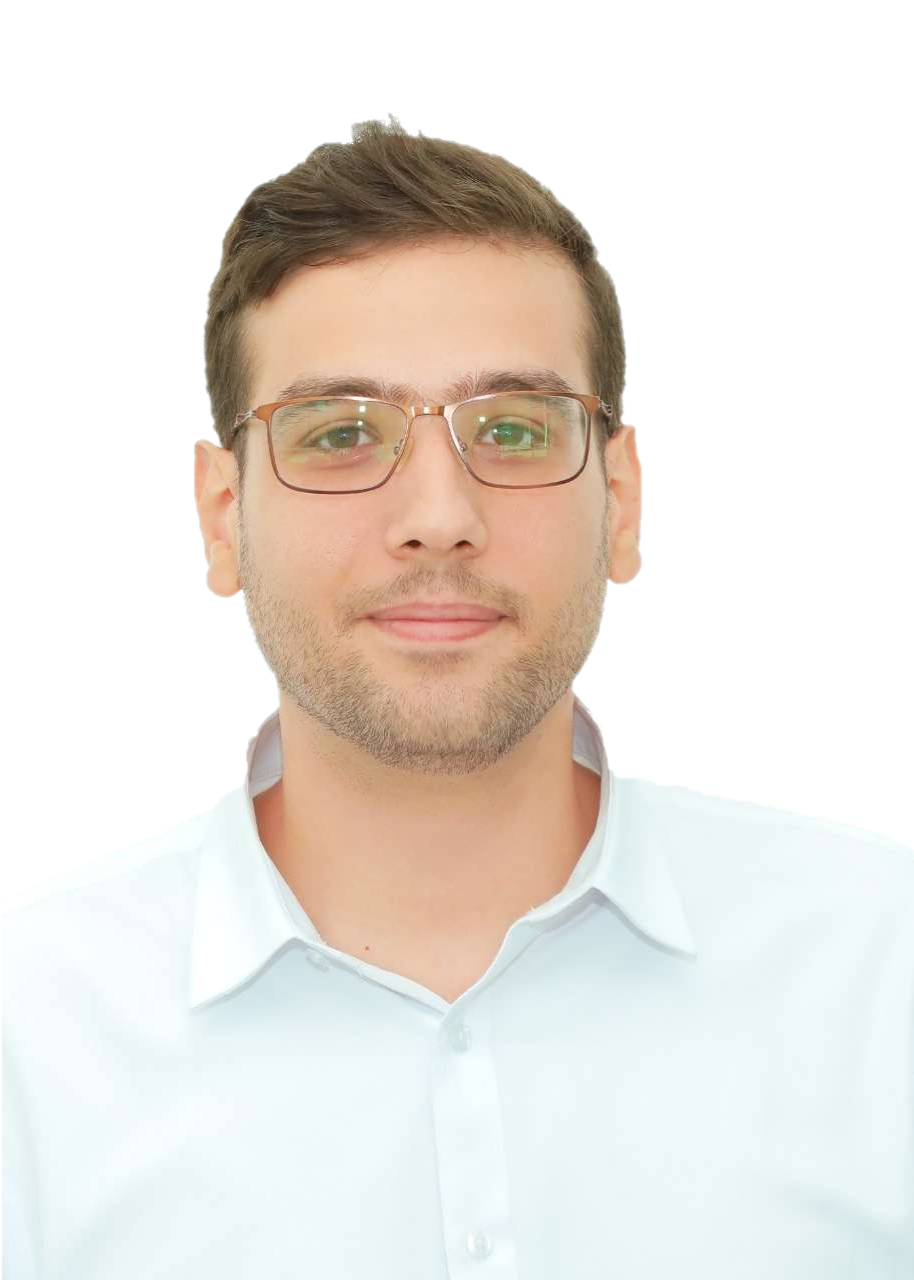
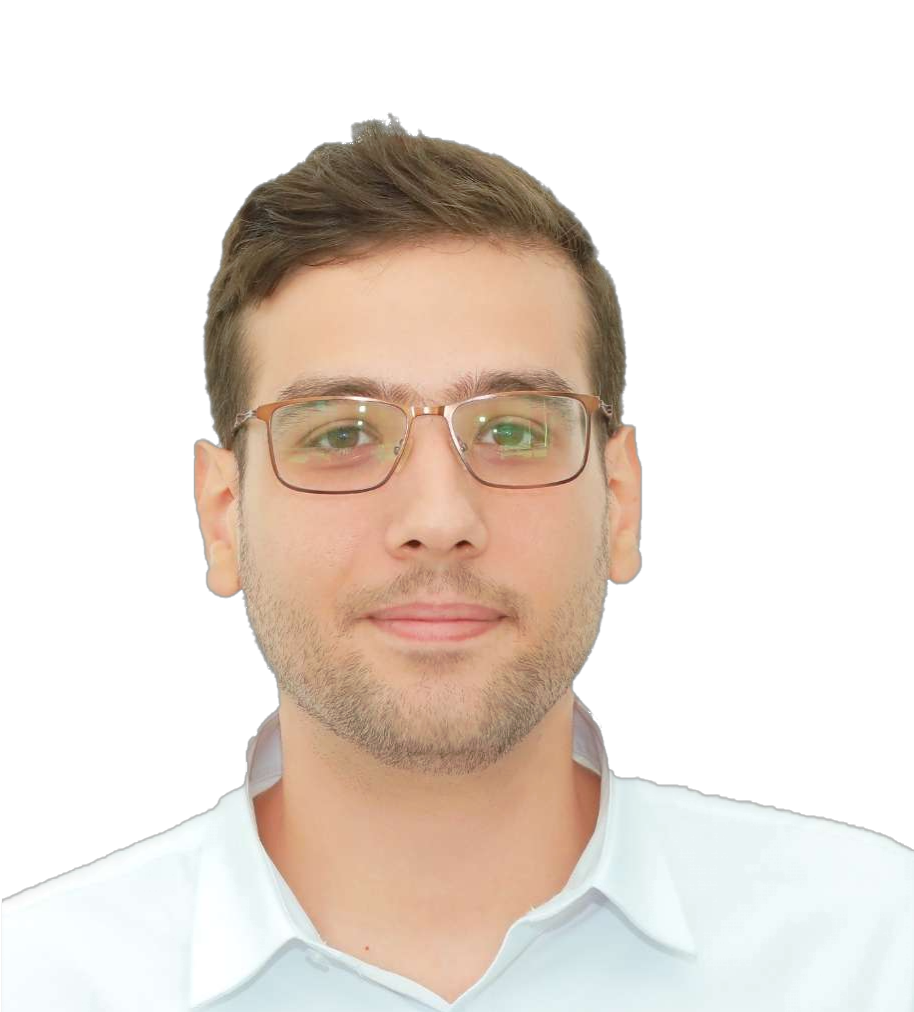
Updated Hero section

diff --git a/src/components/Specific/Sections/HeroSection/index.tsx b/src/components/Specific/Sections/HeroSection/index.tsx
@@ -2,7 +2,7 @@
 
 import styles from "./index.module.scss";
 import Image from "next/image";
-import MyImage from "@/assets/images/malik.jpg";
+import MyImage from "@/assets/images/malik.png";
 import Background from "@/assets/svg/bg.svg";
 import { FaChevronRight } from "react-icons/fa";
 import { useEffect, useState } from "react";
@@ -29,12 +29,18 @@ const HeroSection = () => {
   }, []);
 
   return (
-    <section className={styles.container}>
+    <section
+      className={styles.container}
+      style={{
+        top: opacity <= 0 ? "0px" : -scrollY / 3 + "px",
+      }}
+    >
       <div
         role="img"
-        title="Me"
+        title="Malik Elbadri"
         style={{
           opacity: opacity,
+          zIndex: opacity <= 0 ? -100 : "unset",
         }}
         className={styles.imageContainer}
       >
@@ -50,6 +56,7 @@ const HeroSection = () => {
         className={styles.content}
         style={{
           opacity: opacity,
+          zIndex: opacity <= 0 ? -100 : "unset",
         }}
       >
         <h1 className={styles.header}>Hello, {"I'm "}Malik.</h1>

diff --git a/src/components/Specific/Sections/HeroSection/index.module.scss b/src/components/Specific/Sections/HeroSection/index.module.scss
@@ -14,15 +14,19 @@
     display: flex;
     align-items: center;
     justify-content: center;
-    min-height: 25rem;
     min-width: 25rem;
-    max-height: 25rem;
     max-width: 25rem;
-    border-radius: 100%;
+    max-height: 25rem;
+    min-height: 25rem;
+
+    // border-radius: 100%;
     overflow: hidden;
     animation-name: slideToRight;
     animation-duration: 0.5s;
     animation-fill-mode: forwards;
+    border: solid white 1px;
+    background-color: rgba(0, 0, 0, 0);
+    backdrop-filter: blur(5px);
   }
 
   .content {
@@ -70,7 +74,6 @@
       border: 2px solid white;
       padding: 1.2rem 1rem 1rem 1.3rem;
       font-size: 1rem;
-      border-radius: 8px;
       cursor: pointer;
       overflow: hidden;
       opacity: 0;
@@ -79,6 +82,8 @@
       animation-delay: 0.9s;
       animation-fill-mode: forwards;
       color: white;
+      background-color: rgba(0, 0, 0, 0);
+      backdrop-filter: blur(5px);
 
       &::before {
         content: "";

diff --git a/src/app/layout.tsx b/src/app/layout.tsx
@@ -19,7 +19,7 @@ export default function RootLayout({
   return (
     <html lang="en">
       <UIContext>
-        <Navigation />
+        {/* <Navigation /> */}
         <body className={inter.className}>
           {children}
           <footer></footer>

diff --git a/src/styles/globals.scss b/src/styles/globals.scss
@@ -41,6 +41,7 @@ body {
   min-height: 100vh;
   margin: 0px;
   padding: 0px;
+  overflow-x: hidden;
 
   transition: all 0.5s;
 
